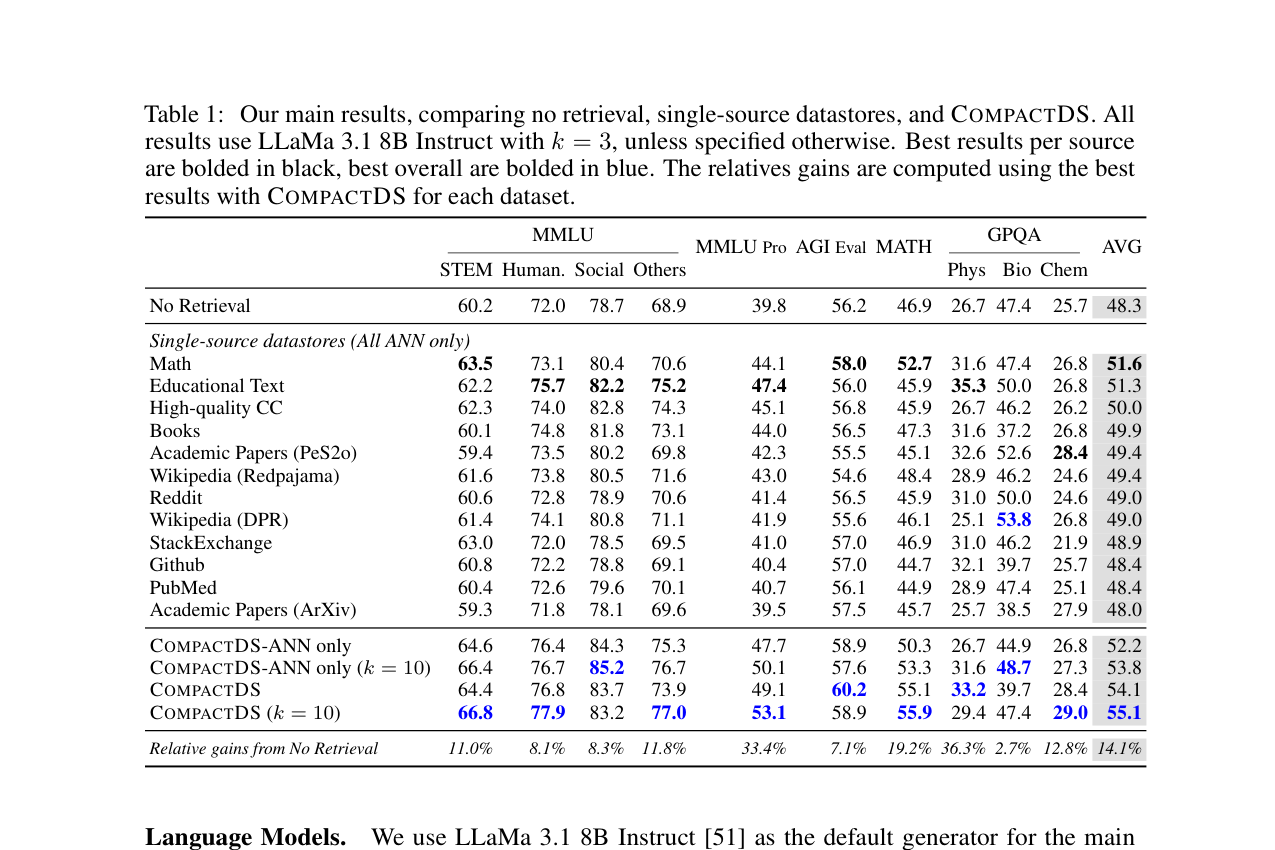
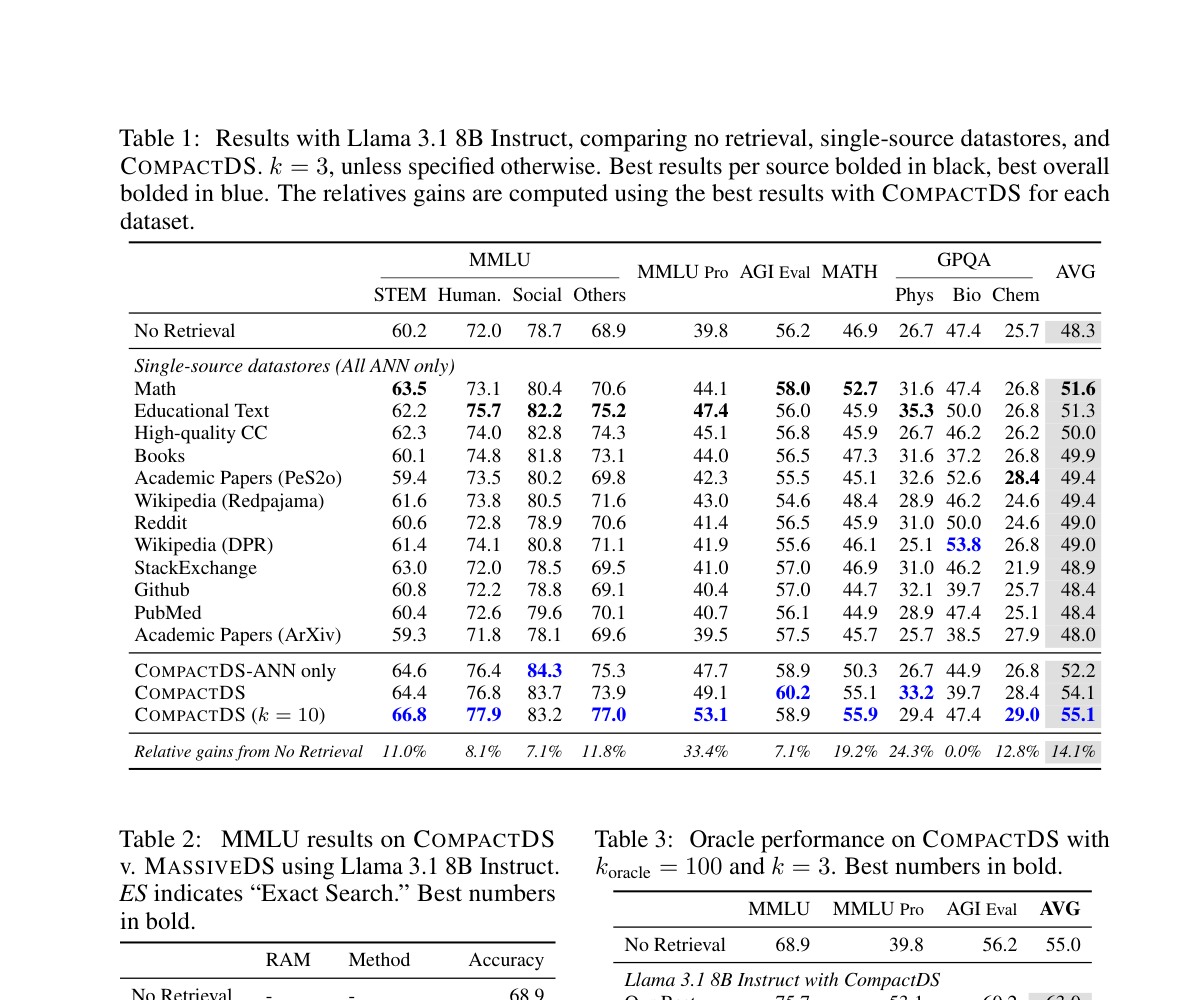
fix: CompactDS 블로그 포스트 ICLR 2026 camera-ready 기준 업데이트 (한/영)
- Venue: NeurIPS 2025 → ICLR 2026, OpenReview 링크 추가
- 모든 테이블/피규어를 ICLR 2026 camera-ready PDF에서 재추출
- Figure 1 (파이프라인), Table 4 (파이프라인 비교), Table 6 (정성적 분석) 추가
- 테이블 번호 ICLR 2026 기준으로 통일 (Table 1-8)
- Oracle reranking 수치 수정 (14.5%→8.0%, 32.6%→16.2%)

Changed region(s): [[0.0925, 0.1224, 0.925, 1.0]]

diff --git a/src/posts/2026-03-28-compactds-frustratingly-simple-retrieval-en.md b/src/posts/2026-03-28-compactds-frustratingly-simple-retrieval-en.md
@@ -1,18 +1,19 @@
 ---
 title: "CompactDS: Frustratingly Simple Retrieval Improves Challenging, Reasoning-Intensive Benchmarks"
 date: 2026-03-28
-summary: "Challenges the prevailing view that RAG is ineffective for reasoning-intensive tasks. Introduces CompactDS, a 380B-word diverse, high-quality web-scale datastore with a two-stage ANN+Exact Search pipeline enabling sub-second retrieval on a single node (456GB RAM). With LLaMA 3.1 8B, achieves +10% on MMLU, +33% on MMLU Pro, +14% on GPQA, and +19% on MATH. Outperforms Google Search-based RAG and matches complex agentic systems like Search-o1. NeurIPS 2025 submission."
-tags: [RAG, Retrieval, LLM, Datastore, Dense Retrieval, NeurIPS 2025, Research Notes]
+summary: "Challenges the prevailing view that RAG is ineffective for reasoning-intensive tasks. Introduces CompactDS, a 380B-word diverse, high-quality web-scale datastore with a two-stage ANN+Exact Search pipeline enabling sub-second retrieval on a single node (456GB RAM). With LLaMA 3.1 8B, achieves +10% on MMLU, +33% on MMLU Pro, +14% on GPQA, and +19% on MATH. Outperforms Google Search-based RAG and matches complex agentic systems like Search-o1. Published at ICLR 2026."
+tags: [RAG, Retrieval, LLM, Datastore, Dense Retrieval, ICLR 2026, Research Notes]
 category: Research Notes
 language: en
 ---
 
 # Frustratingly Simple Retrieval Improves Challenging, Reasoning-Intensive Benchmarks
 
-**Venue:** NeurIPS 2025 (Preprint)
+**Venue:** ICLR 2026
 **Authors:** Xinxi Lyu*, Michael Duan*, Rulin Shao, Pang Wei Koh, Sewon Min
-**Affiliations:** Allen Institute for AI (Ai2), UIUC, USC, University of Washington, UC Berkeley
+**Affiliations:** University of Illinois Urbana-Champaign, University of Southern California, Allen Institute for AI, University of Washington, UC Berkeley
 **arXiv:** [2507.01297](https://arxiv.org/abs/2507.01297)
+**OpenReview:** [Forum](https://openreview.net/forum?id=9lPq01iKOV)
 **Data:** [HuggingFace - alrope/CompactDS-102GB](https://huggingface.co/datasets/alrope/CompactDS-102GB)
 
 ---
@@ -77,6 +78,8 @@ Starting from Common Crawl (894B words), taking the union of C4 and DCLM-Baselin
 **Challenge:** 1.9B passages × 768 dimensions = **5.4TB** vector data — cannot fit in memory.
 
 **Solution: ANN + Exact Search Two-Stage Pipeline**
+
+![Figure 1: Two-stage dense retrieval pipeline with CompactDS](/figures/compactds/figure1_pipeline.png)
 
 **Stage 1 — Approximate Nearest Neighbor (ANN) via IVFPQ:**
 - Uses Contriever-msmarco as E_Approx
@@ -154,7 +157,7 @@ This design follows the DiskANN approach but has not been widely adopted due to 
 
 ### 5.2 Comparison with MassiveDS (Table 2)
 
-![Table 2: Pipeline Comparison](/figures/compactds/table2_pipeline_comparison.png)
+![Table 2: CompactDS vs MassiveDS MMLU Comparison](/figures/compactds/table2_massiveds.png)
 
 | System | RAM Usage | MMLU AVG | Overall AVG |
 |--------|----------|----------|-------------|
@@ -166,31 +169,22 @@ This design follows the DiskANN approach but has not been widely adopted due to 
 
 CompactDS achieves **higher MMLU performance using only 4% of MassiveDS's RAM**. This demonstrates the effectiveness of careful datastore construction (filtering + diverse sources) combined with the ANN + Exact Search pipeline.
 
-### 5.3 Effect of Exact Search
+### 5.3 Effect of Exact Search (Table 4)
 
-From the ablation in Table 2:
+![Table 4: Retrieval Pipeline Comparison (K=1,000)](/figures/compactds/table4_pipeline.png)
+
+From the ablation in Table 4:
 - ANN(Contriever) + ES(Contriever): No significant improvement over ANN-only
 - ANN(Contriever) + ES(**GritLM**): Meaningful improvement (AVG 53.8 → 55.1)
 - **The more expressive model (GritLM) is the primary driver of improvement** — the key benefit of the two-stage design
 
-### 5.4 Index Size Ablation (Table 3)
+### 5.4 Oracle Reranking Upper Bound (Table 3)
 
-![Table 3: FAISS Index Size](/figures/compactds/table3_faiss_index.png)
-
-| Configuration | Index Size | AVG |
-|---------------|-----------|-----|
-| Subquantizers=64 | 125GB | 54.1 |
-| Subquantizers=256 | 456GB | 55.1 |
-
-**4× compression reduces the index to 125GB with only 1% performance drop** — feasible even in memory-constrained environments.
-
-### 5.5 Oracle Reranking Upper Bound (Table 4)
-
-![Table 4: Oracle Performance](/figures/compactds/table4_oracle.png)
+![Table 3: Oracle Performance](/figures/compactds/table3_oracle.png)
 
 With oracle reranking selecting the 3 best passages from 100 candidates:
-- Average improvement: 14.5% → **32.6%** (vs No Retrieval)
-- An 8B model **surpasses the 70B model's no-retrieval performance**
+- Average improvement: 8.0% → **16.2%** (vs No Retrieval)
+- An 8B Oracle model (AVG 71.2) **surpasses the 70B model's no-retrieval performance (AVG 70.1)**
 
 This shows CompactDS already contains highly useful information, and **better retrieval/reranking or stronger LLMs** could yield significantly higher performance.
 
@@ -210,6 +204,12 @@ This shows CompactDS already contains highly useful information, and **better re
 - **Effective across model families:** Significant improvements with Mistral and Qwen3
 - GPQA is an exception at 70B — baseline is already very strong (e.g., Physics 26.7→64.2)
 
+### 5.7 Qualitative Analysis (Table 6)
+
+![Table 6: Example of top retrieved passage from CompactDS on GPQA](/figures/compactds/table6_qualitative.png)
+
+Table 6 shows an example of a passage retrieved by CompactDS for a GPQA question. For a question about the fraction of hydrogen atoms in the second excited state in the atmosphere of Sirius, the retrieved passage contains a similar problem with solution steps, assisting the model's reasoning process.
+
 ---
 
 ## 6. Comparison with Google Search
@@ -221,9 +221,9 @@ A competitive web search RAG pipeline built with Google Programmable Search Engi
 - olmOCR for PDF parsing (superior to PDFPlumber used in prior work)
 - 13-gram overlap decontamination + huggingface.co blocking
 
-### 6.2 CompactDS vs Google Search (Table 8)
+### 6.2 CompactDS vs Google Search (Table 7)
 
-![Table 8: Web vs Local](/figures/compactds/table8_web_vs_local.png)
+![Table 7: Search Engine vs CompactDS Comparison (LLaMA 3.1 8B Instruct)](/figures/compactds/table7_web_vs_local.png)
 
 | Method | MMLU STEM | MMLU Pro | AGI Eval | MATH | GPQA Phys | AVG |
 |--------|-----------|---------|---------|------|-----------|-----|
@@ -235,9 +235,9 @@ A competitive web search RAG pipeline built with Google Programmable Search Engi
 
 **CompactDS consistently outperforms Google Search:** 14% vs 6% average relative improvement. The gap is especially large on MMLU Pro (54.6 vs 44.0) and MATH (55.9 vs 51.4).
 
-### 6.3 QwQ 32B + Search-o1 Comparison (Table 9)
+### 6.3 QwQ 32B + Search-o1 Comparison (Table 8)
 
-![Table 9: QwQ Comparison](/figures/compactds/table9_qwq.png)
+![Table 8: QwQ 32B CompactDS vs Search-o1 Comparison](/figures/compactds/table8_qwq.png)
 
 | Method | Self-contained? | GPQA Diamond | MATH-500 |
 |--------|----------------|-------------|----------|
